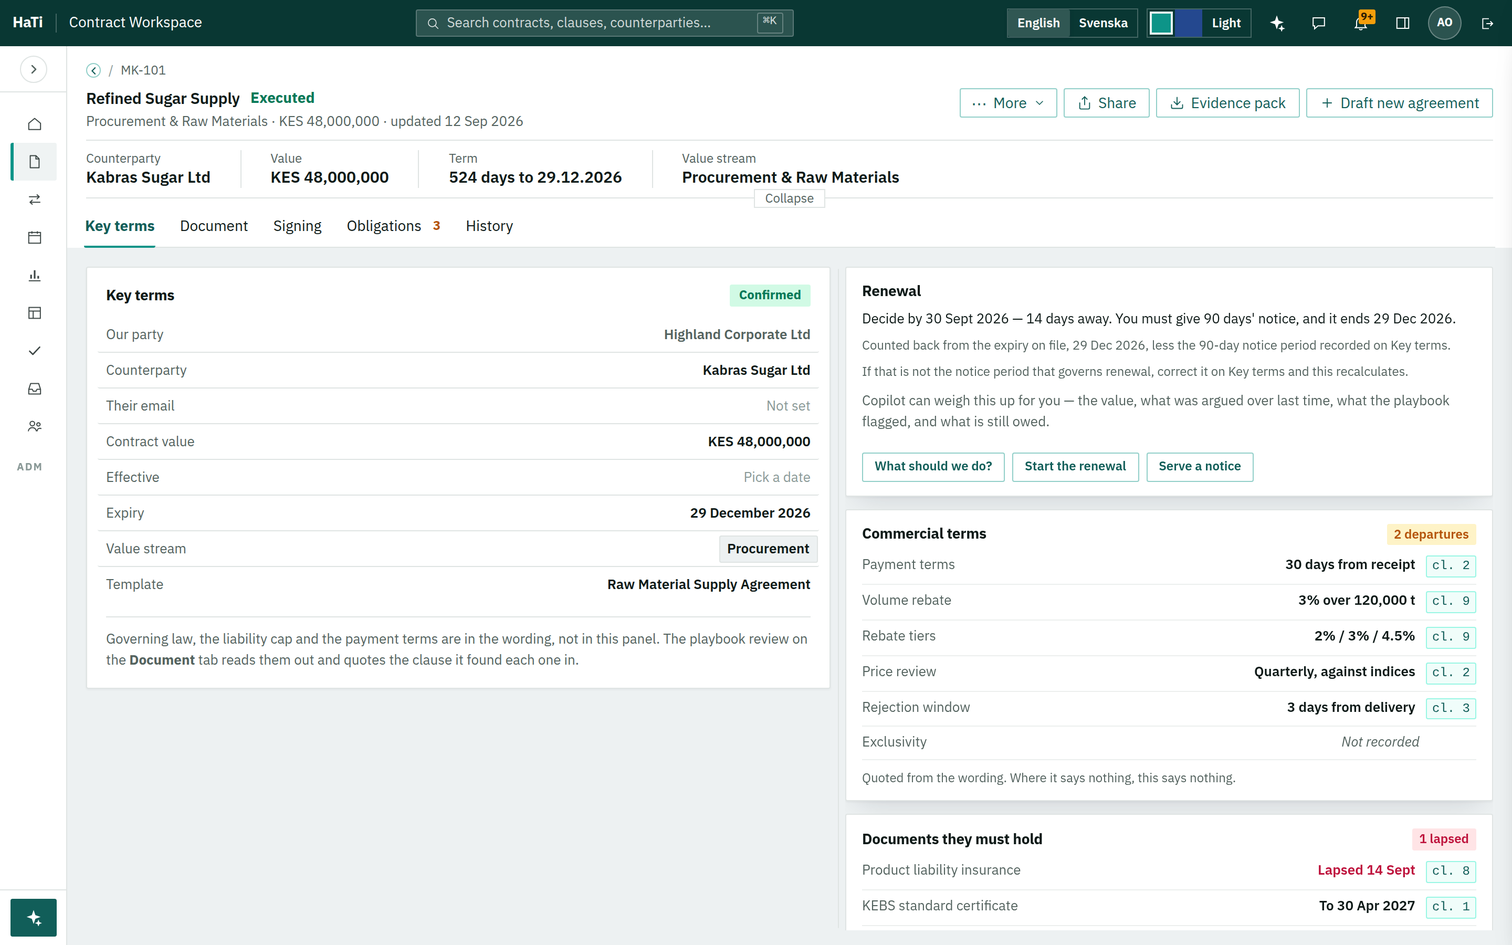
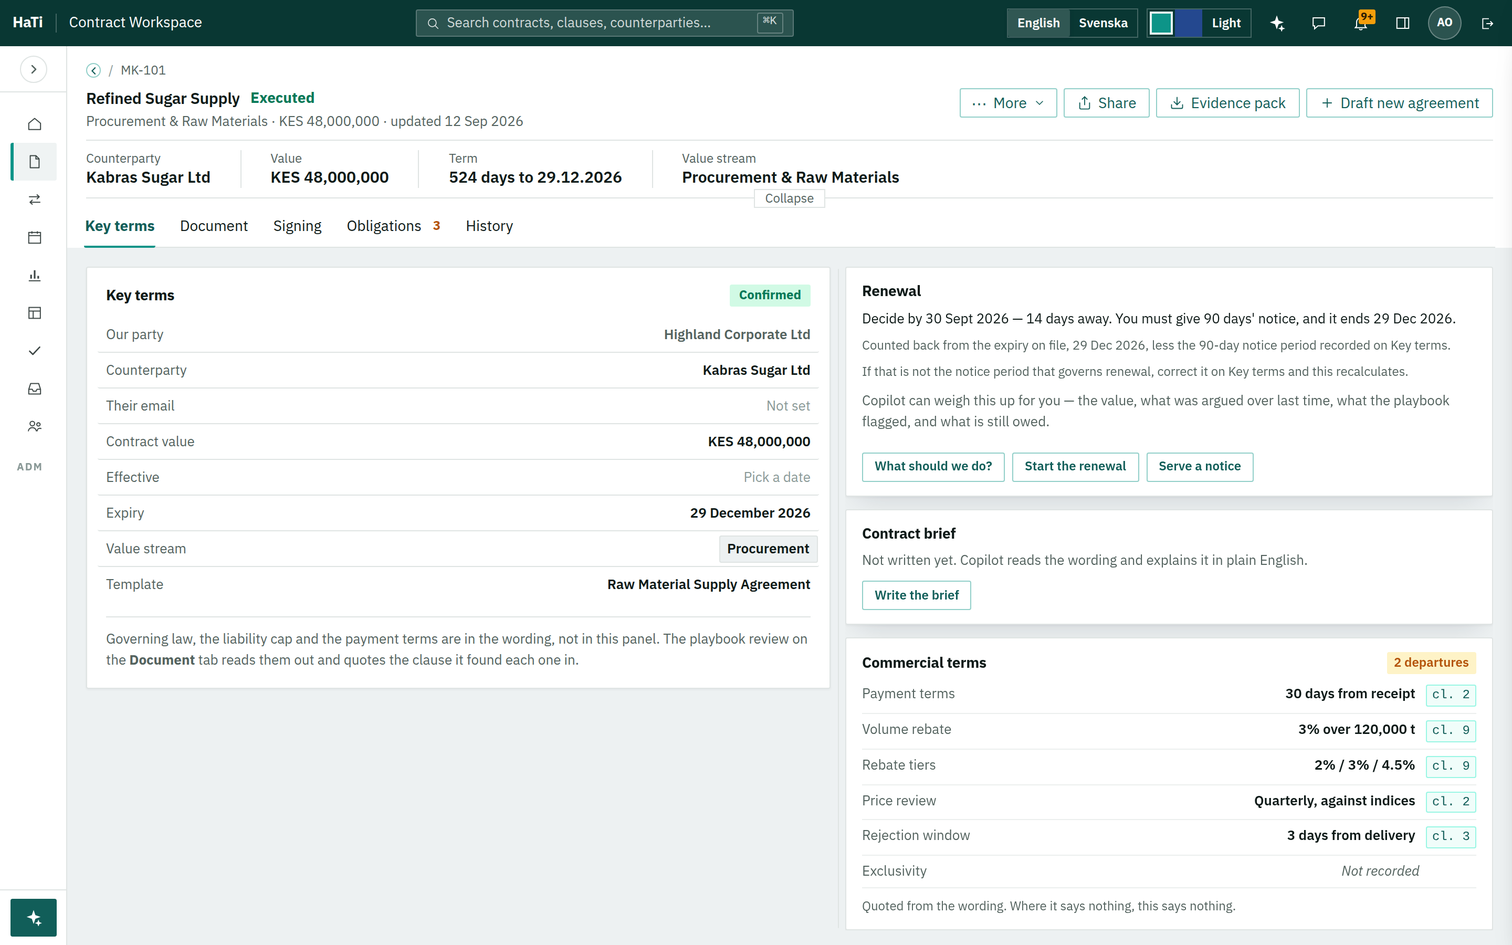
Fix the Key terms column: nothing existing is removed, and show why
The owner asked what happened to "Write the brief" and "Agreement
family" in the contract-room picture. Nothing — but the picture made it
look otherwise, and that was a real placement error worth owning.

The two new cards had been inserted ABOVE the Contract brief, which
pushed both it and the Agreement family below the fold of a 900px
screen. Re-captured with the new cards after the brief, so the brief
keeps its exact position under the Renewal card and only the family
card moves down.

Measured rather than asserted, on MK-101 at 1440x900: today the right
column holds three cards stacking to 528px in a 632px track and never
scrolls; with both new cards it stacks to 1,046px. Across the 22-contract
book the column draws two cards on an ordinary agreement and three inside
a renewal window, so five at once is a supplier contract in its notice
period and only for those weeks.

That cost is real, so the screen now shows two placements. The left
column has 287px of empty space below the Key terms panel and the
Commercial terms card needs 279px, so the recommendation moves it there
— it is key terms, read off the wording rather than typed — leaving only
the documents card on the right, which stacks to 756px. Both pictures are
captured from the running app; the capture scripts are kept beside them.

Claude-Session: https://claude.ai/code/session_014huwJ3Ngo4EuqV3t8NyciQ

Changed region(s): [[0.5625, 0.5289, 1.0, 0.9644], [0.7812, 0.9333, 0.8125, 0.9644], [0.7188, 0.9333, 0.75, 0.9644]]

diff --git a/HaTi-Next-Fifteen-product-review.html b/HaTi-Next-Fifteen-product-review.html
@@ -295,40 +295,63 @@ table.ld tr:last-child td{border-bottom:0}
     <p class="carries">Carries <b>S2</b> commercial terms &middot; <b>S8</b> required documents &middot;
       <b>S6</b> serve a notice &middot; <b>S12</b> the family check</p>
   </div>
-  <p>Four of the fifteen land in this one column, and it is the safest place in the product to put them, because the
-    column was built for cards that come and go. The renewal card in these pictures is only there because this
-    contract is 14 days from its notice deadline; on most agreements it is absent, and so are the two new cards.</p>
+  <p>Four of the fifteen land in this one column, and it is the only screen in the set where the additions push
+    against something. <b>Nothing existing is removed</b> &mdash; the Contract brief and the Agreement family keep
+    their cards and their buttons &mdash; but two more cards in a column that is already full is a real cost, so
+    this screen is shown twice: the straightforward placement, and a better one.</p>
 
   <div class="pair">
     <figure class="plate">
-      <input type="checkbox" class="zm" id="z-c1"><figcaption><span class="dot"></span>Today
+      <input type="checkbox" class="zm" id="z-c1"><figcaption><span class="dot"></span>Today &mdash; three cards
         <label class="zoom" for="z-c1">Full size</label></figcaption>
-      <div class="frame"><img src="docs/review-shots/C1-room-today.png" alt="The Key terms tab today: the Key terms card on the left, and a right column with the Renewal card, the Contract brief card and the Agreement family card" loading="lazy"></div>
+      <div class="frame"><img src="docs/review-shots/C1-room-today.png" alt="The Key terms tab today: the Key terms card on the left with empty space below it, and a right column holding the Renewal card, the Contract brief card and the Agreement family card" loading="lazy"></div>
     </figure>
     <figure class="plate now">
-      <input type="checkbox" class="zm" id="z-c2"><figcaption><span class="dot"></span>With the fifteen on it
+      <input type="checkbox" class="zm" id="z-c2"><figcaption><span class="dot"></span>Placement A &mdash; both new cards in the right column
         <label class="zoom" for="z-c2">Full size</label></figcaption>
-      <div class="frame"><img src="docs/review-shots/C2-room-future.png" alt="The same tab with a third button on the Renewal card reading Serve a notice, a Commercial terms card quoting clauses, and a Documents they must hold card showing one lapsed certificate" loading="lazy"></div>
+      <div class="frame"><img src="docs/review-shots/C2-room-future.png" alt="The same tab with Serve a notice added to the Renewal card, and Commercial terms and Documents they must hold inserted after the Contract brief. The Agreement family card is pushed below the fold." loading="lazy"></div>
+    </figure>
+    <figure class="plate now">
+      <input type="checkbox" class="zm" id="z-c4"><figcaption><span class="dot"></span>Placement B &mdash; recommended
+        <label class="zoom" for="z-c4">Full size</label></figcaption>
+      <div class="frame"><img src="docs/review-shots/C4-room-option-b.png" alt="The same tab with Commercial terms moved to the left column beneath the Key terms card, where there was empty space, and only Documents they must hold added to the right column. Write the brief and the Agreement family are both still on screen." loading="lazy"></div>
     </figure>
   </div>
 
+  <div class="revise"><b>Nothing is deleted, and here are the numbers.</b> Measured on this contract at
+    1440&nbsp;&times;&nbsp;900: today the right column holds three cards stacking to 528px in a 632px track, so it
+    never scrolls. Under <b>placement A</b> it holds five, stacking to 1,046px &mdash; the Contract brief keeps its
+    place directly under the Renewal card, but the Agreement family is pushed off the bottom and you scroll to reach
+    it. Under <b>placement B</b> the Commercial terms card moves to the left column, into 287px of space that is
+    empty today and needs 279px; the right column then stacks to 756px and only the tail of the family card falls
+    below the fold.</div>
+
   <div class="keys">
+    <div><b>Write the brief stays exactly where it is</b><span class="rf">unchanged</span> &mdash; second card in the
+      right column, directly under Renewal, with its button. In placement A it is still there; in the first draft of
+      this review the new cards were inserted <i>above</i> it, which pushed it out of the picture. That was a
+      placement mistake, not a deletion, and it is corrected in both pictures above.</div>
+    <div><b>The Agreement family keeps its card and gains an act</b><span class="rf">S12</span> &mdash; Create an
+      amendment, Link an existing document, Link to a parent agreement, and now Check the family. It moves to last in
+      the column because on most agreements it reports only that there is no family, which is the least urgent thing
+      on the screen.</div>
+    <div><b>Commercial terms belongs with Key terms</b><span class="rf">S2</span> &mdash; which is the argument for
+      placement B. These are key terms; the difference is that HaTi read them off the wording instead of somebody
+      typing them. Putting them under the panel they belong to uses space that is blank today.</div>
+    <div><b>Documents they must hold stays on the right</b><span class="rf">S8</span> &mdash; because it is work to
+      chase rather than a fact to read, and it belongs beside the renewal card, which is the other piece of work in
+      that column.</div>
     <div><b>&ldquo;Serve a notice&rdquo;</b><span class="rf">S6</span> &mdash; a third button on a card that already
       offers two. HaTi already knows the deadline, the notice period and the clause; this is the act it stops short
       of today.</div>
-    <div><b>Commercial terms</b><span class="rf">S2</span> &mdash; payment terms, the rebate, the tiers, the price
-      review and the rejection window, each quoting the clause it came from, and exclusivity saying plainly that
-      nothing was recorded. Drawn only where money passes under the agreement.</div>
-    <div><b>Documents they must hold</b><span class="rf">S8</span> &mdash; the insurance, the KEBS certificate and
-      the food-safety certificate the wording requires, with one lapsed in ruby. Drawn only where the wording
-      requires a document; most contracts require none and see nothing.</div>
-    <div><b>&ldquo;Check the family&rdquo;</b><span class="rf">S12</span> &mdash; a third act on the Agreement family
-      card. On this standalone agreement it would not be drawn at all; it appears once a contract has a parent or
-      children to disagree with.</div>
+    <div><b>Most contracts never see any of this</b> &mdash; measured across the 22 agreements in this book, the
+      right column draws <b>two</b> cards on an ordinary contract and three inside a renewal window. Commercial terms
+      draws only where money passes; Documents only where the wording requires one. Five cards at once happens on a
+      supplier agreement in its notice window, and only for those weeks.</div>
   </div>
-  <p class="weight"><b>The contract does not move.</b> This is the side column; the agreement itself is on the
-    Document tab and starts at exactly the same pixel before and after. On an NDA with no money, no certificates and
-    no family, this tab is unchanged.</p>
+  <p class="weight"><b>The contract does not move.</b> This is the side of the Key terms tab; the agreement itself is
+    on the Document tab and starts at exactly the same pixel before and after. <b>Placement B is the recommendation,
+    and the choice is yours</b> &mdash; it is the difference between one card sitting on the left or on the right.</p>
 </article>
 
 <!-- ===================== OBLIGATIONS ===================== -->
@@ -465,7 +488,7 @@ table.ld tr:last-child td{border-bottom:0}
         <tr><td>Doors in the sidebar</td><td>13</td><td class="same">13</td><td>Nothing. Nine everyday doors and four under Administration, unchanged.</td></tr>
         <tr><td>Tabs inside a contract</td><td>5</td><td class="same">5</td><td>Nothing. Key terms, Document, Signing, Obligations, History.</td></tr>
         <tr><td>Tabs on Insights</td><td>5</td><td class="up">6</td><td>One: <b>Exposure</b>. The only new tab anywhere in the fifteen.</td></tr>
-        <tr><td>Cards in the Key terms column</td><td>3</td><td class="up">5</td><td>Two, and both draw nothing at all on a contract they have nothing to say about.</td></tr>
+        <tr><td>Cards on the Key terms tab</td><td>3</td><td class="up">5</td><td>Two. Under the recommended placement one goes left, under the panel it belongs to, and one right. Both draw nothing on a contract they have nothing to say about.</td></tr>
         <tr><td>Filters shown on Contracts</td><td>4 of 5</td><td class="up">4 of 6</td><td>One more offered behind <i>Adapt filters</i>. The bar itself does not grow.</td></tr>
         <tr><td>Filters on Obligations</td><td>5</td><td class="same">5</td><td>Nothing. The <i>Side</i> filter this needs is already there.</td></tr>
         <tr><td>Bands on Obligations</td><td>3</td><td class="up">4</td><td>One, and only once something has actually been earned.</td></tr>
@@ -490,7 +513,7 @@ table.ld tr:last-child td{border-bottom:0}
       <thead><tr><th>Ref</th><th>Addition</th><th>Where it sits</th><th>Shape it takes</th><th>Seen above</th></tr></thead>
       <tbody>
         <tr><td class="rf">S1</td><td>The Mailroom</td><td>Home &middot; Import contracts</td><td>Feeds the queue that exists</td><td>Screen 1</td></tr>
-        <tr><td class="rf">S2</td><td>Commercial terms</td><td>Contract room &middot; Key terms</td><td>A card in the side column</td><td>Screen 3</td></tr>
+        <tr><td class="rf">S2</td><td>Commercial terms</td><td>Contract room &middot; Key terms</td><td>A card under the Key terms panel</td><td>Screen 3</td></tr>
         <tr><td class="rf">S3</td><td>Clearance lanes</td><td>Settings &amp; Rules &middot; Requests</td><td>A settings panel, and a road</td><td>Screen 6</td></tr>
         <tr><td class="rf">S4</td><td>A front door with a clock</td><td>Requests</td><td>Three facts on each row</td><td>Screen 6</td></tr>
         <tr><td class="rf">S5</td><td>Where is my contract?</td><td>Outside the app</td><td>A link on the request</td><td>Screen 6</td></tr>
@@ -589,9 +612,9 @@ table.ld tr:last-child td{border-bottom:0}
 <footer class="end">
   <div class="wrap">
     <h2>The through-line</h2>
-    <p>Putting the real product beside the proposals changed three of them and deleted a fourth. The forwarded-contract
+    <p>Putting the real product beside the proposals changed four of them and deleted a fifth. The forwarded-contract
       tray became a queue that already existed. The Side filter on Obligations turned out to be built. Certificates
-      turned out to be rows the product already draws. <b>Looking is cheaper than designing.</b></p>
+      turned out to be rows the product already draws. And the commercial terms card went from crowding the right column to filling space that is empty on the left. <b>Looking is cheaper than designing.</b></p>
     <p>What is left is fifteen new abilities and two new things to look at &mdash; a tab on Insights and three facts on
       a request. Everything else is a card, a band, a button, a filter or a row, in furniture that was already on the
       screen, and none of it appears until it has something to say.</p>

diff --git a/docs/review-shots/column.js b/docs/review-shots/column.js
@@ -1,0 +1,69 @@
+const fs=require('node:fs'), path=require('node:path');
+const { chromium } = require('/home/user/mkataba-clm/node_modules/playwright-core');
+const { startHati, seedWorkspace } = require('/home/user/mkataba-clm/test/helpers');
+const { CONTRACTS } = require('/tmp/claude-0/-home-user-mkataba-clm/54a1252e-7fd0-584c-b937-a8fcb2070e56/scratchpad/seed.js');
+const OUT='/tmp/claude-0/-home-user-mkataba-clm/54a1252e-7fd0-584c-b937-a8fcb2070e56/scratchpad/shots';
+const CARDS=`(()=>{
+  const side=document.querySelector('#kt-side');
+  return { order:[...side.children].map(e=>({id:e.id||e.className, h:Math.round(e.getBoundingClientRect().height),
+      title:(e.querySelector('h6,h4,h3')||{}).textContent||''})),
+    scrollH:side.scrollHeight, clientH:side.clientHeight, scrolls: side.scrollHeight>side.clientHeight+2 };
+})()`;
+(async()=>{
+  const h=await startHati(); await seedWorkspace(h,{contracts:CONTRACTS});
+  const b=await chromium.launch({executablePath:'/opt/pw-browsers/chromium',args:['--no-sandbox']});
+  const page=await b.newPage({viewport:{width:1440,height:900},deviceScaleFactor:2});
+  await page.goto(h.base+'/',{waitUntil:'networkidle'});
+  await page.fill('#li-email','admin@example.co.ke'); await page.fill('#li-pass','adminpassword1');
+  await page.click('#li-go'); await page.waitForTimeout(3800);
+  await page.evaluate(()=>openWorkspace('MK-101')); await page.waitForTimeout(2400);
+  await page.click('[data-room-tab="terms"]'); await page.waitForTimeout(1800);
+  const before=await page.evaluate(CARDS);
+  console.log('TODAY  ', JSON.stringify(before,null,0));
+  await page.locator('#kt-side').screenshot({path:path.join(OUT,'G1-column-today.png')});
+
+  // the SAME injection, but the two new cards go after the brief and before the family
+  await page.evaluate(()=>{
+    const side=document.querySelector('#kt-side');
+    const CARD='display:block;background:var(--color-surface);border:1px solid var(--color-divider);box-shadow:var(--shadow-sm);border-radius:var(--radius);padding:13px 15px;text-align:left';
+    const row=(k,v,cl,tone)=>`<div style="display:flex;flex-direction:row;flex:none;gap:10px;align-items:baseline;padding:6px 0;border-bottom:1px solid var(--rule-faint)">
+      <span style="flex:1;font-size:var(--t-meta);color:var(--color-neutral-600);text-align:left">${k}</span>
+      <span style="font-size:var(--t-meta);font-weight:var(--w-strong);text-align:right${tone?';color:'+tone:''}">${v}</span>
+      ${cl?`<span style="font-family:var(--font-code);font-size:var(--t-label);color:var(--accent-ink);border:1px solid var(--color-accent-200);background:var(--color-accent-50);border-radius:var(--radius);padding:1px 5px;flex:none">${cl}</span>`:'<span style="width:44px;flex:none"></span>'}</div>`;
+    const head=(t,chip,tone)=>`<div style="display:flex;flex-direction:row;flex:none;align-items:center;gap:var(--s-2);margin-bottom:4px">
+      <h6 style="margin:0;font-size:var(--t-body);font-weight:var(--w-title);font-family:var(--font-heading);flex:1;text-align:left">${t}</h6>
+      <span style="font-size:var(--t-label);font-weight:var(--w-strong);color:var(--st-${tone}-fg);background:var(--st-${tone}-bg);border-radius:var(--radius);padding:2px 7px;flex:none">${chip}</span></div>`;
+    const ct=document.createElement('section'); ct.className='kt-side-card'; ct.style.cssText=CARD;
+    ct.innerHTML=head('Commercial terms','2 departures','amber')
+      +row('Payment terms','30 days from receipt','cl. 2')+row('Volume rebate','3% over 120,000 t','cl. 9')
+      +row('Rebate tiers','2% / 3% / 4.5%','cl. 9')+row('Price review','Quarterly, against indices','cl. 2')
+      +row('Rejection window','3 days from delivery','cl. 3')
+      +row('Exclusivity','<i style="font-weight:400;color:var(--color-neutral-500)">Not recorded</i>','')
+      +`<p style="margin:9px 0 0;font-size:var(--t-label);color:var(--color-neutral-600);text-align:left">Quoted from the wording. Where it says nothing, this says nothing.</p>`;
+    const dc=document.createElement('section'); dc.className='kt-side-card'; dc.style.cssText=CARD;
+    dc.innerHTML=head('Documents they must hold','1 lapsed','ruby')
+      +row('Product liability insurance','Lapsed 14 Sept','cl. 8','var(--st-ruby-fg)')
+      +row('KEBS standard certificate','To 30 Apr 2027','cl. 1')
+      +row('Food safety (FSSC 22000)','<i style="font-weight:400;color:var(--color-neutral-500)">Never supplied</i>','cl. 3')
+      +`<div style="display:flex;flex-direction:row;flex:none;gap:7px;margin-top:10px"><button type="button" class="ui-btn" style="font-size:var(--t-label);padding:5px 11px">Chase them</button><button type="button" class="ui-btn" style="font-size:var(--t-label);padding:5px 11px">Require another</button></div>`;
+    const fam=document.querySelector('#family-section');
+    side.insertBefore(ct,fam); side.insertBefore(dc,fam);   // after the brief, before the family
+    const rh=document.querySelector('#renewal-host'); const btns=rh&&[...rh.querySelectorAll('button')];
+    if(btns&&btns.length){ const n=btns[btns.length-1].cloneNode(true); n.textContent='Serve a notice';
+      btns[btns.length-1].parentElement.appendChild(n); }
+    const fb=fam&&[...fam.querySelectorAll('button')];
+    if(fb&&fb.length){ const n=fb[fb.length-1].cloneNode(true); n.textContent='Check the family';
+      fb[fb.length-1].parentElement.appendChild(n); }
+  });
+  await page.waitForTimeout(600);
+  const after=await page.evaluate(CARDS);
+  console.log('AFTER  ', JSON.stringify(after,null,0));
+  await page.screenshot({path:path.join(OUT,'C2-room-future.png')});
+  await page.locator('#kt-side').screenshot({path:path.join(OUT,'G2-column-future.png')});
+  // scrolled to the foot of the column, to show the brief and the family are still there
+  await page.evaluate(()=>{const s=document.querySelector('#kt-side'); s.scrollTop=s.scrollHeight;});
+  await page.waitForTimeout(500);
+  await page.screenshot({path:path.join(OUT,'C3-room-future-scrolled.png')});
+  fs.writeFileSync(OUT+'/column.json',JSON.stringify({before,after},null,1));
+  await b.close(); process.exit(0);
+})().catch(e=>{console.error(e);process.exit(1);});

diff --git a/docs/review-shots/optionB.js b/docs/review-shots/optionB.js
@@ -1,0 +1,63 @@
+const fs=require('node:fs'), path=require('node:path');
+const { chromium } = require('/home/user/mkataba-clm/node_modules/playwright-core');
+const { startHati, seedWorkspace } = require('/home/user/mkataba-clm/test/helpers');
+const { CONTRACTS } = require('/tmp/claude-0/-home-user-mkataba-clm/54a1252e-7fd0-584c-b937-a8fcb2070e56/scratchpad/seed.js');
+const OUT='/tmp/claude-0/-home-user-mkataba-clm/54a1252e-7fd0-584c-b937-a8fcb2070e56/scratchpad/shots';
+(async()=>{
+  const h=await startHati(); await seedWorkspace(h,{contracts:CONTRACTS});
+  const b=await chromium.launch({executablePath:'/opt/pw-browsers/chromium',args:['--no-sandbox']});
+  const page=await b.newPage({viewport:{width:1440,height:900},deviceScaleFactor:2});
+  await page.goto(h.base+'/',{waitUntil:'networkidle'});
+  await page.fill('#li-email','admin@example.co.ke'); await page.fill('#li-pass','adminpassword1');
+  await page.click('#li-go'); await page.waitForTimeout(3800);
+  await page.evaluate(()=>openWorkspace('MK-101')); await page.waitForTimeout(2400);
+  await page.click('[data-room-tab="terms"]'); await page.waitForTimeout(1800);
+  const m=await page.evaluate(()=>{
+    const CARD='display:block;background:var(--color-surface);border:1px solid var(--color-divider);box-shadow:var(--shadow-sm);border-radius:var(--radius);padding:13px 15px;text-align:left';
+    const row=(k,v,cl,tone)=>`<div style="display:flex;flex-direction:row;flex:none;gap:10px;align-items:baseline;padding:6px 0;border-bottom:1px solid var(--rule-faint)">
+      <span style="flex:1;font-size:var(--t-meta);color:var(--color-neutral-600);text-align:left">${k}</span>
+      <span style="font-size:var(--t-meta);font-weight:var(--w-strong);text-align:right${tone?';color:'+tone:''}">${v}</span>
+      ${cl?`<span style="font-family:var(--font-code);font-size:var(--t-label);color:var(--accent-ink);border:1px solid var(--color-accent-200);background:var(--color-accent-50);border-radius:var(--radius);padding:1px 5px;flex:none">${cl}</span>`:'<span style="width:44px;flex:none"></span>'}</div>`;
+    const head=(t,chip,tone)=>`<div style="display:flex;flex-direction:row;flex:none;align-items:center;gap:var(--s-2);margin-bottom:4px">
+      <h6 style="margin:0;font-size:var(--t-body);font-weight:var(--w-title);font-family:var(--font-heading);flex:1;text-align:left">${t}</h6>
+      <span style="font-size:var(--t-label);font-weight:var(--w-strong);color:var(--st-${tone}-fg);background:var(--st-${tone}-bg);border-radius:var(--radius);padding:2px 7px;flex:none">${chip}</span></div>`;
+    // COMMERCIAL TERMS goes on the LEFT, under the Key terms card, in the space that is empty today
+    const grid=document.querySelector('.terms-grid'); const leftCol=grid.children[0];
+    const ct=document.createElement('section'); ct.style.cssText=CARD+';margin-top:16px';
+    ct.innerHTML=head('Commercial terms','2 departures','amber')
+      +row('Payment terms','30 days from receipt','cl. 2')+row('Volume rebate','3% over 120,000 t','cl. 9')
+      +row('Rebate tiers','2% / 3% / 4.5%','cl. 9')+row('Price review','Quarterly, against indices','cl. 2')
+      +row('Rejection window','3 days from delivery','cl. 3')
+      +row('Exclusivity','<i style="font-weight:400;color:var(--color-neutral-500)">Not recorded</i>','')
+      +`<p style="margin:9px 0 0;font-size:var(--t-label);color:var(--color-neutral-600);text-align:left">Read from the wording, not typed. Where it says nothing, this says nothing.</p>`;
+    leftCol.appendChild(ct);
+    // DOCUMENTS stays on the right, after the brief and before the family
+    const side=document.querySelector('#kt-side'); const fam=document.querySelector('#family-section');
+    const dc=document.createElement('section'); dc.className='kt-side-card'; dc.style.cssText=CARD;
+    dc.innerHTML=head('Documents they must hold','1 lapsed','ruby')
+      +row('Product liability insurance','Lapsed 14 Sept','cl. 8','var(--st-ruby-fg)')
+      +row('KEBS standard certificate','To 30 Apr 2027','cl. 1')
+      +row('Food safety (FSSC 22000)','<i style="font-weight:400;color:var(--color-neutral-500)">Never supplied</i>','cl. 3')
+      +`<div style="display:flex;flex-direction:row;flex:none;gap:7px;margin-top:10px"><button type="button" class="ui-btn" style="font-size:var(--t-label);padding:5px 11px">Chase them</button><button type="button" class="ui-btn" style="font-size:var(--t-label);padding:5px 11px">Require another</button></div>`;
+    side.insertBefore(dc,fam);
+    const rh=document.querySelector('#renewal-host'); const btns=rh&&[...rh.querySelectorAll('button')];
+    if(btns&&btns.length){ const n=btns[btns.length-1].cloneNode(true); n.textContent='Serve a notice';
+      btns[btns.length-1].parentElement.appendChild(n); }
+    const fb=fam&&[...fam.querySelectorAll('button')];
+    if(fb&&fb.length){ const n=fb[fb.length-1].cloneNode(true); n.textContent='Check the family';
+      fb[fb.length-1].parentElement.appendChild(n); }
+    return null;
+  });
+  await page.waitForTimeout(600);
+  const after=await page.evaluate(()=>{
+    const side=document.querySelector('#kt-side'); const grid=document.querySelector('.terms-grid');
+    const L=grid.children[0];
+    return { right:[...side.children].filter(e=>e.getBoundingClientRect().height>4).map(e=>(e.querySelector('h6,h4,h3')||{}).textContent),
+      rightStack:side.scrollHeight, rightTrack:side.clientHeight, rightScrolls:side.scrollHeight>side.clientHeight+2,
+      leftStack:[...L.children].reduce((n,e)=>n+e.getBoundingClientRect().height,0)|0, leftTrack:Math.round(L.getBoundingClientRect().height) };
+  });
+  console.log('OPTION B', JSON.stringify(after));
+  await page.screenshot({path:path.join(OUT,'C4-room-option-b.png')});
+  fs.writeFileSync(OUT+'/optionB.json',JSON.stringify(after,null,1));
+  await b.close(); process.exit(0);
+})().catch(e=>{console.error(e);process.exit(1);});
